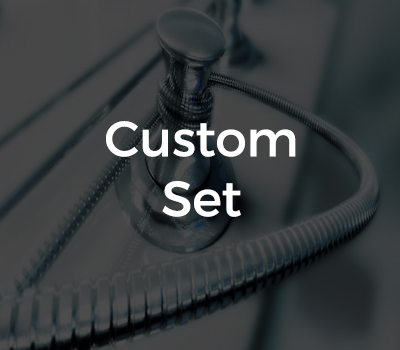
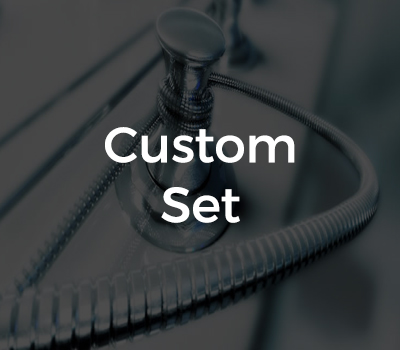
Diseño Box

Changed region(s): [[0.24, 0.3429, 0.75, 0.4857], [0.39, 0.5143, 0.6, 0.6571]]

diff --git a/css/main.css b/css/main.css
@@ -722,13 +722,19 @@ header ul{
 }
 
 
-.box{
-    transition: 1s;
+.img-custom{
+    border-radius: 25px;
+}
+.img-stringbox{
+    border-radius: 25px;
+}
+.img-envios{
+    border-radius: 25px;
 }
 
-
-
-
+.box{
+    margin-bottom:  55px;
+}
 
 
 
